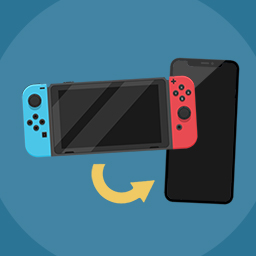
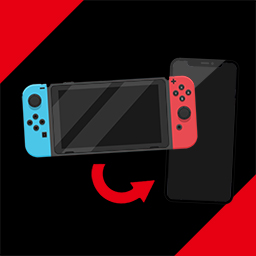
Rebranding

diff --git a/README.md b/README.md
@@ -1,7 +1,7 @@
 # NXGallery
 
 <p align="center">
-    <img height="150" src="https://i.imgur.com/qSORf9M.png">
+    <img height="150" src="https://i.imgur.com/PVXyrXG.png">
 </p>
 
 <p align="center">
